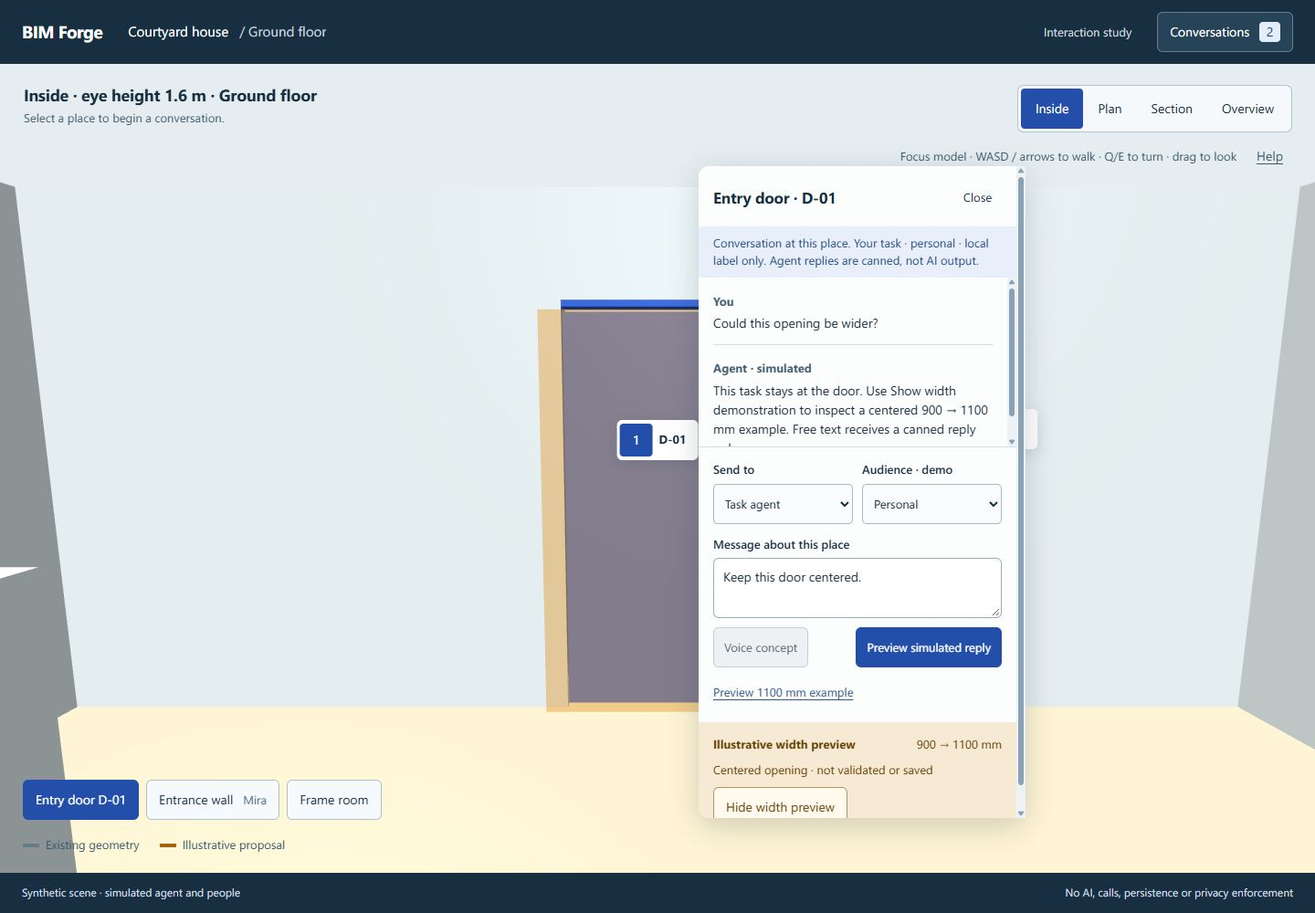
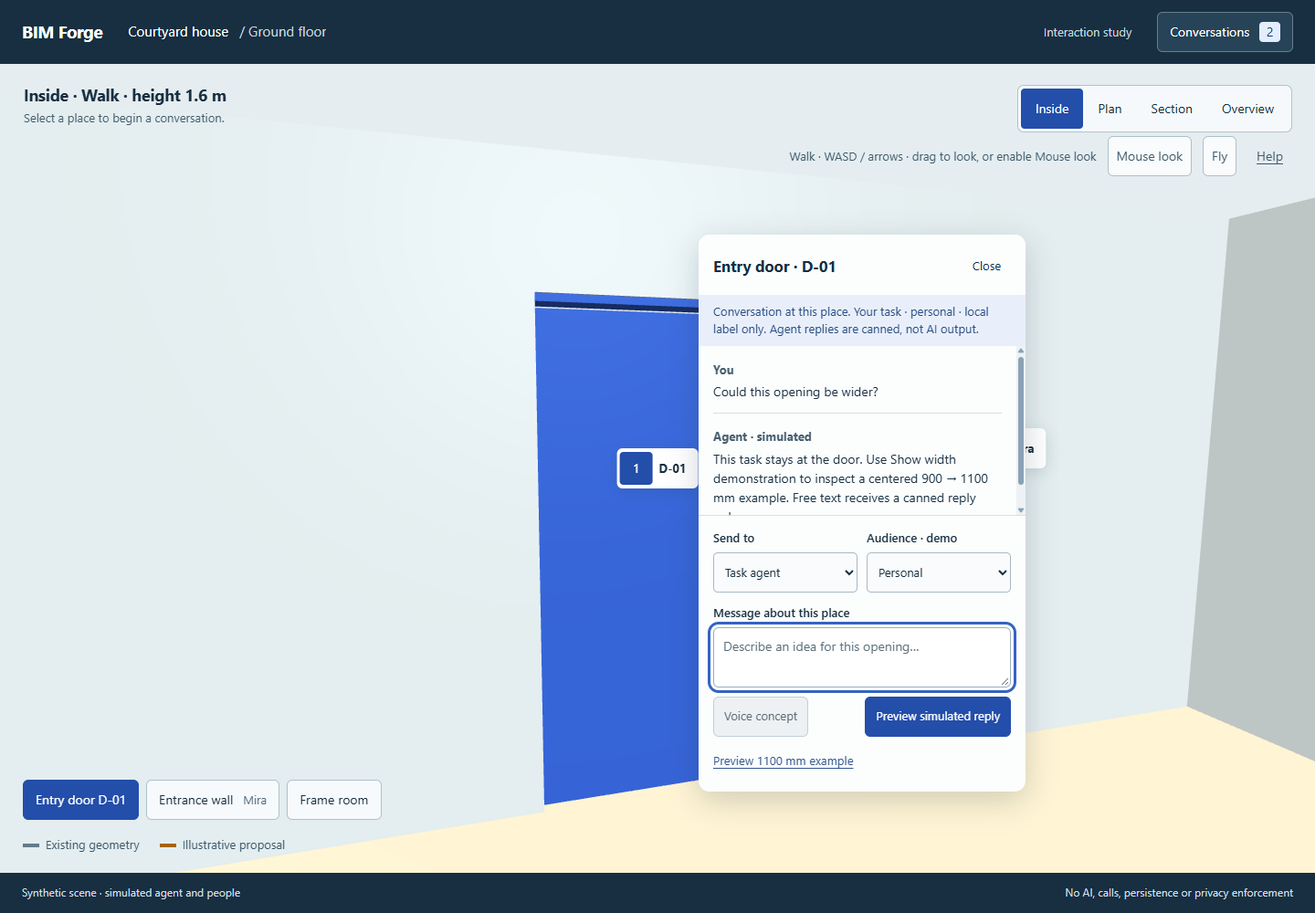
Add game-style walking, mouse look and free flight to UX study

diff --git a/experiments/spatial-conversation-248/app.ts b/experiments/spatial-conversation-248/app.ts
@@ -3,6 +3,7 @@ import type { Mesh, AbstractMesh } from '@babylonjs/core';
 
 type PlaceKey = 'door' | 'wall';
 type View = 'inside' | 'plan' | 'section' | 'overview';
+type Locomotion = 'walk' | 'fly';
 type Recipient = 'agent' | 'person';
 type Audience = 'personal' | 'discipline' | 'company';
 type Message = { who: string; text: string; own: boolean };
@@ -63,11 +64,13 @@ function start(): void {
   section.mode = Camera.ORTHOGRAPHIC_CAMERA;
   section.inputs.clear();
   let view: View = 'inside';
+  let locomotion: Locomotion = 'walk';
   let savedInside = { position: inside.position.clone(), rotation: inside.rotation.clone() };
   let active: PlaceKey | null = null;
   let previewAvailable = false;
   let showingPreview = false;
   const keys = new Set<string>();
+  let gesture: { x: number; y: number; lastX: number; lastY: number; dragged: boolean; id: number } | null = null;
   const picking = new Map<AbstractMesh, PlaceKey>();
   const originals = new Map<Mesh, StandardMaterial>();
   const sky = new HemisphericLight('sky', new Vector3(.3, 1, -.5), scene);
@@ -222,10 +225,45 @@ function start(): void {
     else canvas.focus({ preventScroll: true });
   }
   function closeList(): void { element('thread-list').hidden = true; element('list-toggle').setAttribute('aria-expanded', 'false'); }
+  function stopNavigation(): void {
+    keys.clear();
+    if (gesture && canvas.hasPointerCapture(gesture.id)) canvas.releasePointerCapture(gesture.id);
+    gesture = null;
+    if (document.pointerLockElement === canvas) document.exitPointerLock();
+  }
+  function navigationUI(): void {
+    const locked = document.pointerLockElement === canvas;
+    element('flight-toggle').setAttribute('aria-pressed', String(locomotion === 'fly'));
+    element('flight-toggle').textContent = locomotion === 'fly' ? 'Fly on' : 'Fly';
+    element('flight-toggle').title = locomotion === 'fly' ? 'Switch to grounded walking' : 'Free roam with flight';
+    element('mouse-look').setAttribute('aria-pressed', String(locked));
+    element('mouse-look').textContent = locked ? 'Mouse look · Esc' : 'Mouse look';
+    element('aim').hidden = !locked;
+    for (const id of ['flight-toggle', 'mouse-look']) {
+      if (view === 'inside') element(id).removeAttribute('disabled');
+      else element(id).setAttribute('disabled', '');
+    }
+    if (view === 'inside') element('view-hint').textContent = locked
+      ? 'Mouse to look · WASD to move · Esc releases the cursor'
+      : locomotion === 'fly'
+        ? 'Fly · WASD follows your gaze · Space up · Ctrl down · Shift faster'
+        : 'Walk · WASD / arrows · drag to look, or enable Mouse look';
+  }
+  function setLocomotion(next: Locomotion): void {
+    stopNavigation();
+    locomotion = next;
+    if (next === 'walk') {
+      inside.position.x = Math.max(-2.7, Math.min(2.7, inside.position.x));
+      inside.position.z = Math.max(-1.65, Math.min(1.65, inside.position.z));
+      inside.position.y = 1.6;
+    }
+    navigationUI();
+    canvas.focus({preventScroll:true});
+  }
   function switchView(next: View): void {
     if (view === 'inside' && next !== 'inside') savedInside = { position: inside.position.clone(), rotation: inside.rotation.clone() };
     if (next === 'inside' && view !== 'inside') { inside.position.copyFrom(savedInside.position); inside.rotation.copyFrom(savedInside.rotation); }
-    keys.clear(); orbit.detachControl(); view = next; scene.activeCamera = currentCamera();
+    stopNavigation(); orbit.detachControl(); view = next; scene.activeCamera = currentCamera();
     scene.clipPlane = next === 'plan' ? new Plane(0, 1, 0, -1.2) : next === 'section' ? new Plane(0, 0, 1, 0) : null;
     for (const mesh of planOnly) mesh.setEnabled(next === 'plan');
     syncPreview();
@@ -235,10 +273,12 @@ function start(): void {
     for (const key of views) { element(`view-${key}`).setAttribute('aria-pressed', String(key === next)); }
     element('view-hint').textContent = next === 'inside' ? 'Focus model · WASD / arrows to walk · Q/E to turn · drag to look' : next === 'overview' ? 'Drag to orbit · scroll to zoom' : next === 'plan' ? 'Orthographic plan · horizontal cut at 1.2 m' : 'Orthographic section · rear half clipped';
     const location = document.getElementById('location-label'); if (location) location.textContent = `${next === 'inside' ? 'Inside · eye height 1.6 m' : next[0]?.toUpperCase() + next.slice(1)} · Ground floor`;
+    navigationUI();
     positionUI();
   }
   function frameTask(key: PlaceKey): void {
     switchView('inside');
+    setLocomotion('walk');
     inside.position.set(key === 'door' ? .65 : -.8, 1.6, .5);
     inside.setTarget(places[key].anchor);
     savedInside = { position: inside.position.clone(), rotation: inside.rotation.clone() };
@@ -278,7 +318,23 @@ function start(): void {
   const views: View[] = ['inside', 'plan', 'section', 'overview'];
   for (const key of views) element(`view-${key}`).onclick = () => switchView(key);
   returnTask.onclick = () => { if (active) { frameTask(active); positionUI(); } };
-  element('frame').onclick = () => { if (active) frameTask(active); else { switchView('inside'); inside.position.set(0, 1.6, 1.15); inside.setTarget(new Vector3(0, 1.2, -2)); } };
+  element('frame').onclick = () => { if (active) frameTask(active); else { switchView('inside'); setLocomotion('walk'); inside.position.set(0, 1.6, 1.15); inside.setTarget(new Vector3(0, 1.2, -2)); } };
+  element('flight-toggle').onclick = () => { if (view === 'inside') setLocomotion(locomotion === 'walk' ? 'fly' : 'walk'); };
+  element('mouse-look').onclick = () => {
+    if (view !== 'inside') return;
+    if (document.pointerLockElement === canvas) { stopNavigation(); return; }
+    canvas.focus({preventScroll:true});
+    void canvas.requestPointerLock().catch(() => {
+      element('view-hint').textContent = 'Mouse look unavailable here. Drag on the model to look instead.';
+    });
+  };
+  document.addEventListener('pointerlockchange', () => { keys.clear(); navigationUI(); });
+  document.addEventListener('mousemove', event => {
+    if (document.pointerLockElement !== canvas || view !== 'inside') return;
+    inside.rotation.y += event.movementX * .003;
+    inside.rotation.x = Math.max(-1.35, Math.min(1.35, inside.rotation.x + event.movementY * .003));
+  });
+  compose.addEventListener('focusin', stopNavigation);
   element('close').onclick = closePlace;
   element('list-toggle').onclick = () => { const list = element('thread-list'); list.hidden = !list.hidden; element('list-toggle').setAttribute('aria-expanded', String(!list.hidden)); renderList(); };
   element('list-close').onclick = () => { closeList(); element('list-toggle').focus(); };
@@ -301,8 +357,7 @@ function start(): void {
   const helpToggle = document.getElementById('help-toggle'), helpPanel = document.getElementById('help-panel'), helpClose = document.getElementById('help-close');
   if (helpToggle && helpPanel) helpToggle.onclick = () => { helpPanel.hidden = !helpPanel.hidden; helpToggle.setAttribute('aria-expanded', String(!helpPanel.hidden)); };
   if (helpClose && helpPanel) helpClose.onclick = () => { helpPanel.hidden = true; helpToggle?.setAttribute('aria-expanded', 'false'); helpToggle?.focus(); };
-  let gesture: { x: number; y: number; lastX: number; lastY: number; dragged: boolean; id: number } | null = null;
-  canvas.addEventListener('pointerdown', event => { if (event.button !== 0) return; canvas.focus({ preventScroll: true }); gesture = { x: event.clientX, y: event.clientY, lastX: event.clientX, lastY: event.clientY, dragged: false, id: event.pointerId }; canvas.setPointerCapture(event.pointerId); });
+  canvas.addEventListener('pointerdown', event => { if (event.button !== 0 || document.pointerLockElement === canvas) return; canvas.focus({ preventScroll: true }); gesture = { x: event.clientX, y: event.clientY, lastX: event.clientX, lastY: event.clientY, dragged: false, id: event.pointerId }; canvas.setPointerCapture(event.pointerId); });
   canvas.addEventListener('pointermove', event => {
     if (!gesture || event.pointerId !== gesture.id) return;
     const dx = event.clientX - gesture.lastX, dy = event.clientY - gesture.lastY;
@@ -311,6 +366,12 @@ function start(): void {
     gesture.lastX = event.clientX; gesture.lastY = event.clientY;
   });
   canvas.addEventListener('pointerup', event => {
+    if (document.pointerLockElement === canvas && event.button === 0) {
+      const hit = scene.pick(canvas.clientWidth / 2, canvas.clientHeight / 2);
+      stopNavigation();
+      if (hit?.pickedMesh) { const key = picking.get(hit.pickedMesh); if (key) openPlace(key, true); }
+      return;
+    }
     const completed = gesture; gesture = null;
     if (!completed || event.pointerId !== completed.id) return;
     if (canvas.hasPointerCapture(event.pointerId)) canvas.releasePointerCapture(event.pointerId);
@@ -318,25 +379,28 @@ function start(): void {
     const rect = canvas.getBoundingClientRect(); const hit = scene.pick(event.clientX - rect.left, event.clientY - rect.top);
     if (hit?.pickedMesh) { const key = picking.get(hit.pickedMesh); if (key) openPlace(key); }
   });
-  canvas.addEventListener('pointercancel', () => { gesture = null; });
-  canvas.addEventListener('blur', () => keys.clear());
-  canvas.addEventListener('keydown', event => { if (document.activeElement !== canvas || view !== 'inside') return; if (['w', 'a', 's', 'd', 'q', 'e', 'ArrowUp', 'ArrowDown', 'ArrowLeft', 'ArrowRight'].includes(event.key)) { event.preventDefault(); keys.add(event.key); } });
-  window.addEventListener('keyup', event => keys.delete(event.key));
-  window.addEventListener('blur', () => { keys.clear(); gesture = null; });
-  document.addEventListener('keydown', event => { if (event.key === 'Escape') { closePlace(); closeList(); if (helpPanel) helpPanel.hidden = true; } });
+  canvas.addEventListener('pointercancel', stopNavigation);
+  canvas.addEventListener('blur', stopNavigation);
+  canvas.addEventListener('keydown', event => { if (document.activeElement !== canvas || view !== 'inside') return; const key = event.key.toLowerCase(); if (['w', 'a', 's', 'd', 'q', 'e', 'arrowup', 'arrowdown', 'arrowleft', 'arrowright', ' ', 'control', 'shift'].includes(key)) { event.preventDefault(); keys.add(key); } });
+  window.addEventListener('keyup', event => keys.delete(event.key.toLowerCase()));
+  window.addEventListener('blur', () => { stopNavigation(); gesture = null; });
+  document.addEventListener('keydown', event => { if (event.key === 'Escape') { stopNavigation(); closePlace(); closeList(); if (helpPanel) helpPanel.hidden = true; } });
   scene.onBeforeRenderObservable.add(() => {
+    if (view === 'inside') element('location-label').textContent = `${locomotion === 'fly' ? 'Fly · free roam' : 'Inside · Walk'} · height ${inside.position.y.toFixed(1)} m`;
     if (view !== 'inside' || document.activeElement !== canvas || !keys.size) return;
     const turn = Number(keys.has('e')) - Number(keys.has('q'));
     inside.rotation.y += turn * Math.min(engine.getDeltaTime(), 50) * .002;
-    const forward = inside.getDirection(Axis.Z); forward.y = 0; forward.normalize();
+    const forward = inside.getDirection(Axis.Z); if (locomotion === 'walk') forward.y = 0; forward.normalize();
     const right = inside.getDirection(Axis.X); right.y = 0; right.normalize();
     const movement = Vector3.Zero();
-    if (keys.has('w') || keys.has('ArrowUp')) movement.addInPlace(forward);
-    if (keys.has('s') || keys.has('ArrowDown')) movement.subtractInPlace(forward);
-    if (keys.has('d') || keys.has('ArrowRight')) movement.addInPlace(right);
-    if (keys.has('a') || keys.has('ArrowLeft')) movement.subtractInPlace(right);
-    movement.normalize().scaleInPlace(Math.min(engine.getDeltaTime(), 50) * .0018);
-    inside.position.addInPlace(movement); inside.position.x = Math.max(-2.7, Math.min(2.7, inside.position.x)); inside.position.z = Math.max(-1.65, Math.min(1.65, inside.position.z)); inside.position.y = 1.6;
+    if (keys.has('w') || keys.has('arrowup')) movement.addInPlace(forward);
+    if (keys.has('s') || keys.has('arrowdown')) movement.subtractInPlace(forward);
+    if (keys.has('d') || keys.has('arrowright')) movement.addInPlace(right);
+    if (keys.has('a') || keys.has('arrowleft')) movement.subtractInPlace(right);
+    if (locomotion === 'fly') { if (keys.has(' ')) movement.y += 1; if (keys.has('control')) movement.y -= 1; }
+    movement.normalize().scaleInPlace(Math.min(engine.getDeltaTime(), 50) * .0018 * (keys.has('shift') ? 3 : 1));
+    inside.position.addInPlace(movement);
+    if (locomotion === 'walk') { inside.position.x = Math.max(-2.7, Math.min(2.7, inside.position.x)); inside.position.z = Math.max(-1.65, Math.min(1.65, inside.position.z)); inside.position.y = 1.6; }
   });
   window.addEventListener('resize', () => { engine.resize(); updateOrtho(); positionUI(); });
   switchView('inside'); renderState(); scene.onAfterRenderObservable.add(positionUI); engine.runRenderLoop(() => scene.render());

diff --git a/experiments/spatial-conversation-248/index.html b/experiments/spatial-conversation-248/index.html
@@ -7,8 +7,9 @@
 <canvas id="model" tabindex="0" aria-label="Interactive 3D model of the ground-floor entrance" aria-describedby="view-hint"></canvas>
 <div class="scene-title"><h1 id="location-label">Ground floor · Entrance</h1><p>Select a place to begin a conversation.</p></div>
 <nav class="view-controls" aria-label="Model view"><button id="view-inside" aria-pressed="true">Inside</button><button id="view-plan" aria-pressed="false">Plan</button><button id="view-section" aria-pressed="false">Section</button><button id="view-overview" aria-pressed="false">Overview</button></nav>
-<div class="navigation-hint"><p id="view-hint">Drag to look · focus view + W/A/S/D to move</p><button id="help-toggle" aria-expanded="false" aria-controls="help-panel" aria-label="Show model navigation help">Help</button></div>
-<section id="help-panel" class="help-panel" hidden aria-labelledby="help-title"><div class="list-head"><h2 id="help-title">Move through the model</h2><button id="help-close" aria-label="Close navigation help">Close</button></div><p>Inside starts at 1.6 m. Focus the model, then use W/A/S/D or arrow keys to walk and Q/E to turn. Drag to look.</p><p>Plan, Section and Overview retain the task. Inside restores your position and direction. The task list and Return to task intentionally move you back.</p><p>Free text receives canned simulated replies. The width example is a separate demonstration.</p><p>Recipient and audience controls are local labels, without message delivery or privacy enforcement.</p></section>
+<div class="navigation-hint"><p id="view-hint">WASD to walk · drag to look</p><button id="mouse-look" aria-pressed="false" title="Enable game-style mouse look. Escape releases the cursor.">Mouse look</button><button id="flight-toggle" aria-pressed="false" title="Free roam with flight">Fly</button><button id="help-toggle" aria-expanded="false" aria-controls="help-panel" aria-label="Show model navigation help">Help</button></div>
+<div id="aim" class="aim" hidden aria-hidden="true"><svg viewBox="0 0 24 24"><path d="M12 3v5m0 8v5M3 12h5m8 0h5"/></svg></div>
+<section id="help-panel" class="help-panel" hidden aria-labelledby="help-title"><div class="list-head"><h2 id="help-title">Move through the model</h2><button id="help-close" aria-label="Close navigation help">Close</button></div><p>Walk: focus the model, then use WASD or arrow keys. Drag to look, or enable Mouse look for game-style turning. Q/E also turns. Escape releases the cursor. In Mouse look, click the aimed object to select it.</p><p>Fly: WASD follows your facing direction. Space rises, Ctrl descends, and Shift moves faster. Flight can leave the room and pass through geometry. Switch Fly off to return to grounded walking. Frame room returns you to the room or active task.</p><p>Plan, Section and Overview retain the task and your Inside pose. Movement stops when you type, leave the model, or switch views.</p><p>Free text receives canned simulated replies. The width example is a separate demonstration. Recipient and audience controls are local labels, without message delivery or privacy enforcement.</p></section>
 <div class="object-tools" aria-label="Select a model object"><button data-pick="door" aria-label="Select Entry door D-01">Entry door D-01</button><button data-pick="wall" aria-label="Select adjoining entrance wall, Mira’s task">Entrance wall <span>Mira</span></button><button id="frame">Frame room</button></div>
 <section id="thread-list" hidden aria-label="Conversations in this model"><div class="list-head"><h2>Conversations</h2><button id="list-close" aria-label="Close conversation list">Close</button></div><p>Choose a task to return to its place in the model.</p><div id="threads"></div></section>
 <svg class="connector" aria-hidden="true"><path id="connection"/></svg>

diff --git a/experiments/spatial-conversation-248/style.css b/experiments/spatial-conversation-248/style.css
@@ -10,3 +10,4 @@
 @media(max-width:700px){.project-bar{height:58px;padding:0 14px;gap:14px}.brand{font-size:17px}.project{font-size:13px}.project span{display:none}.project-bar button{font-size:12px;padding:8px 10px}#count{margin-left:3px;min-width:19px}#stage{height:calc(100svh - 114px)}.scene-title{top:14px;left:15px;right:15px}.scene-title h1{font-size:16px}.scene-title p{display:none}.view-controls{top:50px;left:14px;right:14px;padding:2px}.view-controls button{flex:1;min-height:44px;padding:8px 6px;font-size:13px}.navigation-hint{top:102px;left:15px;right:12px;justify-content:space-between;gap:4px}.navigation-hint p{font-size:12px;max-width:calc(100% - 42px)}.navigation-hint button{font-size:12px;padding:5px}.object-tools{top:151px;bottom:auto;left:14px;right:14px;gap:5px}.object-tools button{font-size:12px;padding:8px 9px;min-height:44px}.object-tools button span{display:none}.object-tools #frame{margin-left:auto}.spatial-marker b{font-size:12px;padding-right:8px}.spatial-marker span{width:36px;height:36px}#conversation{left:12px!important;right:12px!important;top:auto!important;bottom:44px!important;width:auto;max-height:49%;border-radius:12px}.bubble-head{padding:8px 12px}.bubble-head h2{font-size:15px}.area-state{font-size:12px;padding:7px 12px}#messages{padding:12px 12px 0;max-height:100px}#messages p{font-size:13px;margin-bottom:12px}#compose{padding:12px}.conversation-routing{gap:9px;margin-bottom:10px}label{font-size:12px;margin-bottom:5px}select{font-size:13px}textarea{min-height:62px;font-size:13px}.compose-actions{margin-top:8px}.compose-actions button{font-size:13px;padding:8px 10px}.example-button{min-height:44px;padding-top:9px}#proposal{padding:12px}#proposal p:first-child{flex-wrap:wrap;gap:4px}#offscreen-state{top:205px;bottom:auto;left:14px;transform:none;max-width:calc(100% - 28px);padding-left:10px;gap:8px;font-size:12px}#return-task{font-size:12px;padding:8px 10px}.legend{bottom:15px;left:15px;gap:18px;font-size:11px}.legend i{width:15px}.help-panel{top:148px;left:14px;right:14px;width:auto;max-height:calc(100% - 170px);overflow:auto}#thread-list{top:12px;right:12px;left:12px;width:auto;max-height:calc(100% - 24px);padding:15px}footer{height:56px;padding:8px 14px;display:flex;flex-direction:column;align-items:flex-start;justify-content:center;gap:2px;font-size:11px}#fallback{left:14px;top:35%;width:calc(100% - 28px);padding:20px}}
 @media(max-width:390px){.project-bar{gap:9px;padding:0 11px}.brand{font-size:15px}.project{font-size:12px}.project-bar #list-toggle{font-size:12px;padding:8px}.object-tools button{font-size:12px;padding:8px}.navigation-hint p{font-size:12px}.legend{gap:12px;font-size:12px}}
 @media(prefers-reduced-motion:reduce){*{scroll-behavior:auto!important}}
+.aim{position:absolute;left:50%;top:50%;width:24px;height:24px;transform:translate(-50%,-50%);pointer-events:none;z-index:4;stroke:#fff;stroke-width:2;filter:drop-shadow(0 1px 2px #172f41)}.navigation-hint button[aria-pressed=true]{background:#234eaa;color:#fff;text-decoration:none}.navigation-hint #mouse-look,.navigation-hint #flight-toggle{border-color:#afc0cb;background:#f9fbfc;text-decoration:none}.navigation-hint #mouse-look[aria-pressed=true],.navigation-hint #flight-toggle[aria-pressed=true]{background:#234eaa;color:#fff}@media(max-width:700px){.navigation-hint{display:grid;grid-template-columns:1fr 1fr auto}.navigation-hint p{grid-column:1/-1;max-width:100%}.object-tools{top:204px}}

diff --git a/docs/design/model-centered-language-248.md b/docs/design/model-centered-language-248.md
@@ -33,6 +33,12 @@ The next study follows one continuous work session, rather than separate dashboa
 
 ## Interaction decisions to test
 
+Navigation extension requested by the maintainer: retain grounded WASD walking and add explicit mouse-look plus Fly locomotion. Fly uses the facing direction, allows ascent and descent, and can leave the room bounds. Keep a clear cursor-release action and a route back to the room. Input fields, focus loss, and view changes must stop movement. Scope: study `app.ts`, its HTML/CSS controls/help, and the product/UX navigation notes. Model entities and validators are unchanged. Acceptance evidence includes flight leaving eye height/room bounds, returning to Walk, cursor release, retained pose across views, and typing without camera movement.
+
+The built navigation extension passed regular Chromium interaction checks: Shift and Space rose above the synthetic ceiling; Ctrl reduced elevation; a stable flight height survived Plan and Inside switches; switching Fly off restored 1.6 m walking height. Captured mouse-look engaged on the model, actual mouse movement changed the view, and Escape released capture. Real WASD keystrokes entered into the conversation did not move the camera. The in-app browser refused cursor capture and correctly displayed the drag-to-look fallback. The 390-pixel layout had no horizontal overflow or overlap between navigation and object controls. The initial startup check caught an SVG element used where an HTML container was required; correcting the container restored startup. This remains a local study, not production navigation qualification.
+
+Independent navigation review found that a held drag could survive canvas focus loss. A real browser reproduction moved the marker after focus had moved to a view control. The shared stop-navigation path now cancels held keys, active drag, pointer capture, and mouse lock. Repeating the sequence left the marker unchanged. The reviewer scored this fix resolved and returned SHIP for study feedback after inspecting recaptured desktop and narrow screens. This verdict covers the listed fix, not production navigation or final visual identity.
+
 - How much anchored conversation can be read while leaving the object and room legible? What happens when its anchor leaves the view?
 - How are overlapping markers grouped without hiding task status, ownership, or required decisions?
 - How does Inside navigation preserve orientation through a jump, plan switch, section cut, and return?

diff --git a/experiments/spatial-conversation-248/README.md b/experiments/spatial-conversation-248/README.md
@@ -18,6 +18,10 @@ Open http://127.0.0.1:4188. The server binds to loopback and serves only the stu
 
 Begin Inside the room. Select the entry door and start a task at its location. Collapse it to a marker, inspect the adjoining wall task, and return through the conversation list. Switch to Plan or Section and return Inside to assess whether the view preserves orientation and the task remains understandable.
 
+Focus the model and use WASD or arrows to walk. Drag to look, or enable **Mouse look** to turn with the mouse continuously. Press Escape to release the cursor. In captured mouse-look, click the aimed object to select it. Browsers that refuse cursor capture retain drag-to-look and Q/E turning.
+
+Toggle **Fly** for free roam. WASD then follows your facing direction, Space rises, Ctrl descends, and Shift moves faster. Flight can pass through geometry and leave the room. Toggle Fly off to return to grounded walking, or use **Frame room** to return to the room or selected task. Inside pose and flight mode survive a Plan or Section switch. Typing and loss of model focus stop movement.
+
 Use the explicit width example to inspect an illustrative 900 to 1100 mm door overlay. It is not an interpretation of arbitrary text or a validated model proposal. Text replies are canned demonstrations. No control applies a model change.
 
 The audience and recipient controls explore whether people can distinguish task agents, human conversation, and visibility choices. These controls are not authorization enforcement. Voice is labeled as a concept and does not request microphone access, record, transcribe, or make calls. No multiplayer session, real agent, or shared project store is connected.

diff --git a/PRODUCT.md b/PRODUCT.md
@@ -28,6 +28,8 @@ Text and voice are intended ways to express intent. Future VR is a consideration
 
 Being inside the building is the primary intended spatial experience. Plan, section, elevation, and overview remain readily available and preserve location, selection, and task context across view changes. Direct navigation to places and tasks complements movement through the building.
 
+Desktop controls include WASD movement, mouse-facing control with explicit cursor capture and Escape release, and a separate free-roam flight mode with ascent and descent. Conversation fields never use their keystrokes to move the camera. The isolated study demonstrates these controls; production integration and other input devices remain separate work.
+
 Built-in human voice chat, text chat, and private conversations let participants communicate without finding contact details in an external calling application. The interface distinguishes human recipients from agent instructions. Voice transport, proximity audio, recording, transcription, and retention remain open design decisions.
 
 Future agent instructions should link spoken phrases, pointing, and progressive drawing on a shared timeline, so references such as "this one" and "this way" resolve to the object and gesture at that time. [Issue #250](https://github.com/Frederik91/bim-forge/issues/250) tracks this explicitly deferred capability. It is planning only, outside the current interaction study.

diff --git a/docs/product-vision.md b/docs/product-vision.md
@@ -30,6 +30,8 @@ Plan, section, elevation, and overview views remain readily available. Switching
 
 People can navigate through the building or jump directly to a room, object, saved viewpoint, or permitted shared task. Routine work must not require walking through every intervening space. Navigation controls and transitions still need testing across desktop, touch, keyboard, and future VR.
 
+Desktop navigation includes familiar game-style controls. WASD moves relative to the facing direction, and mouse movement turns that direction in an explicitly enabled mouse-look mode. Escape restores the cursor for selection and conversation. A separate free-roam flight mode allows movement beyond eye height and through the building for inspection, with explicit ascent, descent, and faster travel controls. Walking and flying remain distinguishable, and a return-to-room action recovers a useful location. Navigation input stops while a person types, changes views, or leaves the model focus.
+
 ### People can talk within the shared building
 
 Built-in voice chat, text chat, and private conversations let people communicate with others they encounter through the model or a shared task. A person can identify a permitted participant or task owner and start a conversation without finding external contact details or switching to a separate calling application.
